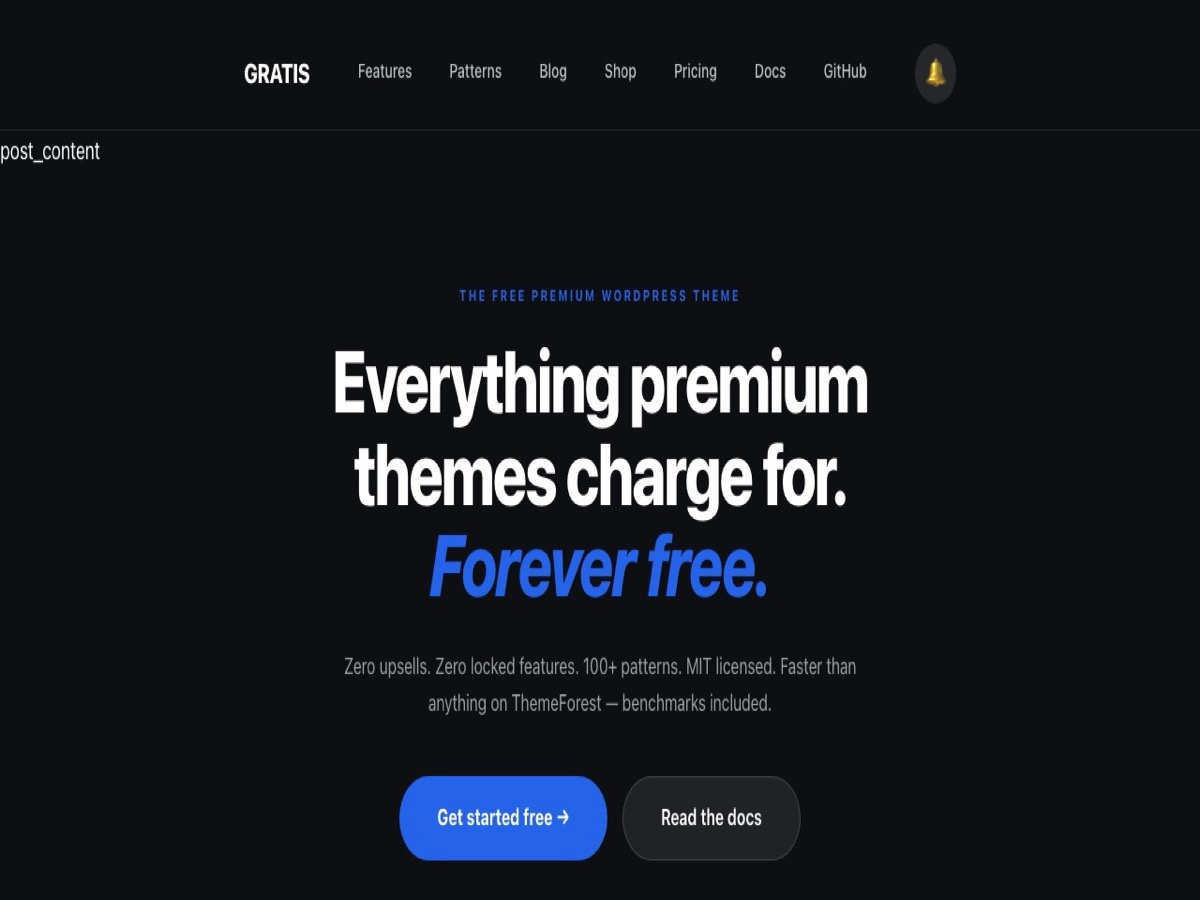
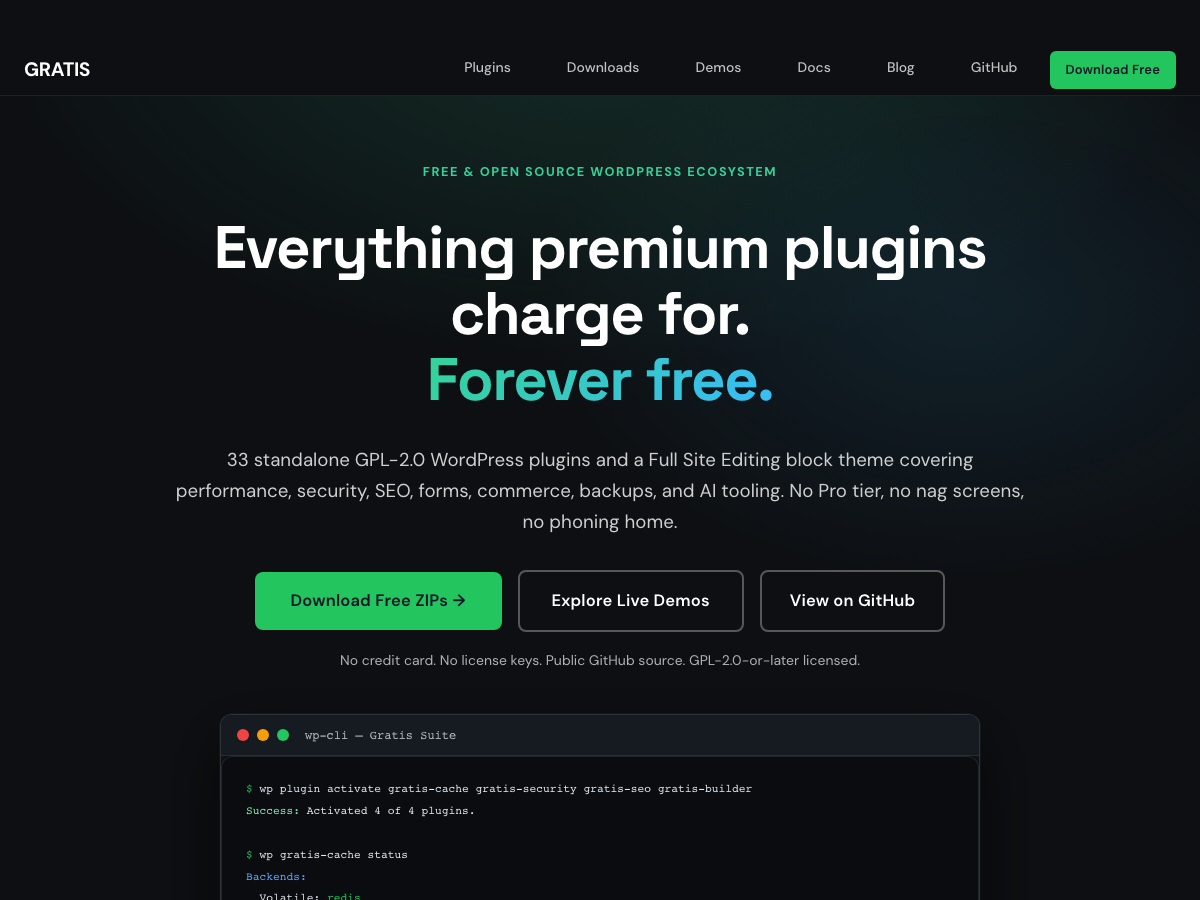
fix: pass wordpress theme check, fix single post h1, add dark plugin widget styles and fresh screenshot (#3)

diff --git a/templates/single.html b/templates/single.html
@@ -3,43 +3,18 @@
 <main class="wp-block-group" id="main-content" style="background:#0d0f12;color:#ffffff;padding-top:var(--wp--preset--spacing--12);padding-bottom:var(--wp--preset--spacing--20)">
 <!-- wp:group {"style":{"spacing":{"margin":{"bottom":"var:preset|spacing|10"}}},"layout":{"type":"constrained"}} -->
 <div class="wp-block-group">
-<!-- wp:post-terms {"term":"category","style":{"typography":{"fontSize":"11px","fontWeight":"700","textTransform":"uppercase","letterSpacing":"0.08em"},"color":{"text":"#60a5fa"}}} /-->
-<!-- wp:post-title {"tagName":"h1","style":{"typography":{"fontSize":"clamp(2rem,1.5rem+2vw,3.5rem)","fontWeight":"800","lineHeight":"1.1"},"color":{"text":"#ffffff"},"spacing":{"margin":{"top":"var:preset|spacing|3"}}}} /-->
-<!-- wp:group {"style":{"spacing":{"margin":{"top":"var:preset|spacing|4"}}},"layout":{"type":"flex","flexWrap":"wrap"}} -->
-<div class="wp-block-group">
-<!-- wp:post-date {"style":{"typography":{"fontSize":"14px"},"color":{"text":"rgba(255,255,255,0.5)"}}} /-->
-<!-- wp:paragraph {"style":{"typography":{"fontSize":"14px"},"color":{"text":"rgba(255,255,255,0.4)"}}} -->
-<p style="font-size:14px;color:rgba(255,255,255,0.4)">·</p>
-<!-- /wp:paragraph -->
-<!-- wp:post-author-name {"style":{"typography":{"fontSize":"14px"},"color":{"text":"rgba(255,255,255,0.5)"}}} /-->
+<!-- wp:post-terms {"term":"category","style":{"typography":{"fontSize":"11px","fontWeight":"700","textTransform":"uppercase","letterSpacing":"0.08em"},"color":{"text":"#34d399"}}} /-->
+<!-- wp:post-title {"level":1,"style":{"typography":{"fontSize":"clamp(2rem,1.5rem + 2vw,3.25rem)","fontWeight":"800","lineHeight":"1.12"},"color":{"text":"#ffffff"},"spacing":{"margin":{"top":"var:preset|spacing|3"}}}} /-->
+<!-- wp:group {"style":{"spacing":{"margin":{"top":"var:preset|spacing|4"},"blockGap":"16px"}},"layout":{"type":"flex","flexWrap":"wrap","verticalAlignment":"center"}} -->
+<div class="wp-block-group" style="gap:16px">
+<!-- wp:post-date {"style":{"typography":{"fontSize":"14px"},"color":{"text":"rgba(255,255,255,0.62)"}}} /-->
+<!-- wp:post-author-name {"style":{"typography":{"fontSize":"14px"},"color":{"text":"rgba(255,255,255,0.62)"}}} /-->
 </div>
 <!-- /wp:group -->
 </div>
 <!-- /wp:group -->
 <!-- wp:post-featured-image {"aspectRatio":"21/9","style":{"border":{"radius":"12px"},"spacing":{"margin":{"bottom":"var:preset|spacing|10"}}}} /-->
 <!-- wp:post-content {"layout":{"type":"constrained"}} /-->
-
-<!-- wp:group {"style":{"spacing":{"margin":{"top":"var:preset|spacing|16"}},"border":{"top":{"color":"rgba(255,255,255,0.08)","width":"1px"}}},"layout":{"type":"constrained"}} -->
-<div class="wp-block-group" style="margin-top:var(--wp--preset--spacing--16);border-top:1px solid rgba(255,255,255,0.08)">
-
-<!-- wp:group {"style":{"spacing":{"padding":{"top":"var:preset|spacing|8"}}},"layout":{"type":"flex","justifyContent":"space-between","flexWrap":"wrap"}} -->
-<div class="wp-block-group" style="padding-top:var(--wp--preset--spacing--8)">
-<!-- wp:paragraph {"style":{"typography":{"fontSize":"0.875rem","fontWeight":"600"},"color":{"text":"rgba(255,255,255,0.5)"}}} -->
-<p style="font-size:0.875rem;font-weight:600;color:rgba(255,255,255,0.5)">Share this post:</p>
-<!-- /wp:paragraph -->
-<!-- wp:group {"layout":{"type":"flex","flexWrap":"nowrap"},"style":{"spacing":{"blockGap":"var:preset|spacing|3"}}} -->
-<div class="wp-block-group">
-<!-- wp:html -->
-<a href="https://twitter.com/intent/tweet?url=" class="gratis-share-link" title="Share on X" style="color:rgba(255,255,255,0.5);text-decoration:none;font-size:14px;padding:6px 12px;border:1px solid rgba(255,255,255,0.15);border-radius:6px;">𝕏 Post</a>
-<a href="https://www.linkedin.com/sharing/share-offsite/?url=" class="gratis-share-link" title="Share on LinkedIn" style="color:rgba(255,255,255,0.5);text-decoration:none;font-size:14px;padding:6px 12px;border:1px solid rgba(255,255,255,0.15);border-radius:6px;">in Share</a>
-<!-- /wp:html -->
-</div>
-<!-- /wp:group -->
-</div>
-<!-- /wp:group -->
-
-</div>
-<!-- /wp:group -->
 
 <!-- wp:group {"style":{"spacing":{"margin":{"top":"var:preset|spacing|10"}},"border":{"top":{"color":"rgba(255,255,255,0.06)","width":"1px"}}},"layout":{"type":"flex","justifyContent":"space-between","flexWrap":"wrap"}} -->
 <div class="wp-block-group" style="margin-top:var(--wp--preset--spacing--10);border-top:1px solid rgba(255,255,255,0.06);padding-top:var(--wp--preset--spacing--6)">

diff --git a/style.css b/style.css
@@ -6,10 +6,10 @@ Author URI: https://github.com/juslintek
 Description: Everything premium themes charge for. Forever free. Zero upsells. Zero locked features. Built for speed, accessibility, and Full Site Editing.
 Version: 1.0.0
 Requires at least: 6.5
-Tested up to: 6.9
+Tested up to: 7.1
 Requires PHP: 7.4
 License: GPL-2.0-or-later
 License URI: https://www.gnu.org/licenses/gpl-2.0.html
 Text Domain: gratis
-Tags: full-site-editing, block-patterns, custom-colors, custom-typography, editor-style, rtl-language-support, wide-blocks, e-commerce, one-column
+Tags: full-site-editing, block-patterns, custom-colors, editor-style, rtl-language-support, wide-blocks, e-commerce, one-column
 */

diff --git a/assets/css/demo-showcase.css b/assets/css/demo-showcase.css
@@ -88,6 +88,11 @@
   padding: 0 1rem;
 }
 
+.demo-features > *,
+.demo-stats > * {
+  margin-block-start: 0 !important;
+}
+
 .demo-feature-card {
   background: rgba(255, 255, 255, 0.03);
   border: 1px solid rgba(255, 255, 255, 0.08);

diff --git a/functions.php b/functions.php
@@ -16,11 +16,8 @@ add_action('after_setup_theme', function () {
     load_theme_textdomain('gratis', get_template_directory() . '/languages');
 });
 
-// ── Favicon + OG Meta ─────────────────────────────────────────────────────────
+// ── OG Meta fallback ──────────────────────────────────────────────────────────
 add_action('wp_head', function () {
-    $icon = get_template_directory_uri() . '/assets/favicon.svg';
-    echo '<link rel="icon" href="' . esc_url($icon) . '" type="image/svg+xml">' . "\n";
-
     // Defer Open Graph / Twitter Card output to the Gratis SEO plugin when it is
     // active, so the document never emits duplicate og:/twitter: tags. The
     // `gratis_theme_emit_meta` filter overrides this (default: emit only when
@@ -163,15 +160,9 @@ add_action('wp_enqueue_scripts', function () {
     ]);
 });
 
-// ── Dequeue junk ──────────────────────────────────────────────────────────────
+// ── Dequeue classic theme styles not needed for FSE ───────────────────────────
 add_action('wp_enqueue_scripts', function () {
-    // Classic theme styles not needed for FSE
     wp_dequeue_style('classic-theme-styles');
-    // jQuery not needed on frontend for FSE themes
-    if (!is_admin()) {
-        wp_deregister_script('jquery');
-        wp_deregister_script('jquery-migrate');
-    }
 }, 100);
 
 // Remove emoji — saves ~15KB JS + DNS lookup
@@ -179,13 +170,6 @@ remove_action('wp_head', 'print_emoji_detection_script', 7);
 remove_action('wp_print_styles', 'print_emoji_styles');
 remove_action('admin_print_scripts', 'print_emoji_detection_script');
 remove_action('admin_print_styles', 'print_emoji_styles');
-
-// Remove oEmbed/REST discovery from <head> — reduces TTFB
-remove_action('wp_head', 'wp_oembed_add_discovery_links');
-remove_action('wp_head', 'rest_output_link_wp_head');
-remove_action('wp_head', 'wp_shortlink_wp_head');
-remove_action('wp_head', 'rsd_link');
-remove_action('wp_head', 'wlwmanifest_link');
 
 // Remove block library CSS on pages with no blocks
 add_action('wp_enqueue_scripts', function () {
@@ -443,6 +427,52 @@ header.wp-block-template-part{display:contents}
 .gratis-ghost-btn:hover{border-color:rgba(255,255,255,0.3);background:rgba(255,255,255,0.1);color:#ffffff!important}
 .gratis-cat-heading{font-size:1.35rem;font-weight:700;color:#ffffff;margin:2.5rem 0 0.5rem;padding-bottom:0.5rem;border-bottom:1px solid rgba(255,255,255,0.08)}
 .gratis-page-wrap{max-width:1180px;margin:0 auto;padding:56px 24px 80px}
+/* Screen reader utility (needed when wp-block-library is dequeued on non-singular pages) */
+.screen-reader-text{border:0;clip:rect(1px,1px,1px,1px);clip-path:inset(50%);height:1px;margin:-1px;overflow:hidden;padding:0;position:absolute;width:1px;word-wrap:normal!important}
+/* Reviews aggregate rating high contrast on dark card */
+.gratis-aggregate-rating{display:inline-flex;align-items:center;gap:10px;flex-wrap:wrap;justify-content:center}
+.gratis-aggregate-rating-text{color:#e2e8f0!important;font-size:1rem;font-weight:600}
+/* Dark-mode plugin showcase widgets (Kanban board, Booking, Learn, Events, Community) */
+.gratis-board{display:grid!important;grid-template-columns:repeat(auto-fit,minmax(220px,1fr));gap:16px!important}
+.gratis-board-col{min-width:0!important;background:#131720!important;color:#f8fafc!important;border:1px solid rgba(255,255,255,0.10)!important;border-radius:12px!important;padding:16px!important}
+.gratis-board-col h3{color:#f8fafc!important;font-weight:700!important;font-size:0.9rem!important;text-transform:uppercase;letter-spacing:0.05em;padding-bottom:10px;border-bottom:1px solid rgba(255,255,255,0.08)}
+.gratis-board-col .gratis-card{background:#1b2232!important;color:#f8fafc!important;border:1px solid rgba(255,255,255,0.10)!important;border-radius:10px!important;padding:12px!important}
+.gratis-board-col .gratis-card strong{color:#ffffff!important;display:block;margin-bottom:6px;font-size:0.92rem}
+.gratis-board-col .gratis-card span,.gratis-board-col .gratis-card-priority{display:inline-block;margin-left:0!important;padding:2px 8px;border-radius:999px;background:rgba(52,211,153,0.14);color:#6ee7b7!important;font-size:0.75rem!important;font-weight:600}
+.gratis-board-col .gratis-board-empty,.gratis-board-col p{color:rgba(255,255,255,0.58)!important}
+.gratis-booking-form{display:flex;flex-direction:column;gap:18px}
+.gratis-booking-row{display:grid;grid-template-columns:repeat(auto-fit,minmax(220px,1fr));gap:16px}
+.gratis-booking-field{display:flex;flex-direction:column;gap:8px}
+.gratis-booking-field label,.gratis-booking-label{font-size:0.85rem;font-weight:600;color:#e2e8f0}
+.gratis-booking-field select,.gratis-booking-field input{background:#131720;color:#ffffff;border:1px solid rgba(255,255,255,0.16);border-radius:8px;padding:10px 12px;font-size:0.95rem}
+.gratis-booking-slots{display:flex;flex-wrap:wrap;gap:8px}
+.gratis-booking-slot{background:#131720;color:#e2e8f0;border:1px solid rgba(255,255,255,0.16);border-radius:8px;padding:8px 14px;font-size:0.88rem;font-weight:600;cursor:pointer;transition:all 150ms ease}
+.gratis-booking-slot:hover{border-color:#34d399;color:#ffffff}
+.gratis-booking-slot.is-selected{background:#22c55e;border-color:#22c55e;color:#052e16}
+.gratis-booking-submit{align-self:flex-start;background:#22c55e;color:#052e16;border:none;border-radius:8px;padding:12px 22px;font-size:0.95rem;font-weight:700;cursor:pointer;transition:background-color 150ms ease}
+.gratis-booking-submit:hover{background:#4ade80}
+.gratis-booking-status{margin:0;font-size:0.9rem;min-height:1.4em}
+.gratis-booking-status.is-success{color:#34d399}
+.gratis-booking-status.is-error{color:#f87171}
+.gratis-course-catalog{display:grid;grid-template-columns:repeat(auto-fit,minmax(280px,1fr));gap:18px}
+.gratis-course-card{background:#131720;border:1px solid rgba(255,255,255,0.10);border-radius:12px;padding:20px;display:flex;flex-direction:column;gap:12px}
+.gratis-course-card__head{display:flex;align-items:flex-start;justify-content:space-between;gap:10px}
+.gratis-course-card__title{margin:0;font-size:1.08rem;font-weight:700;line-height:1.3}
+.gratis-course-card__title a{color:#ffffff!important;text-decoration:none}
+.gratis-course-card__title a:hover{color:#34d399!important}
+.gratis-course-card__count{font-size:0.75rem;font-weight:600;color:#34d399;background:rgba(52,211,153,0.12);border:1px solid rgba(52,211,153,0.25);padding:2px 8px;border-radius:999px;white-space:nowrap}
+.gratis-course-card__desc{margin:0;color:rgba(255,255,255,0.74);font-size:0.9rem;line-height:1.55}
+.gratis-course-outline{margin:0;padding-left:20px;display:flex;flex-direction:column;gap:6px;color:rgba(255,255,255,0.78);font-size:0.88rem}
+.gratis-course-outline a{color:#93c5fd!important;text-decoration:none}
+.gratis-course-outline a:hover{text-decoration:underline}
+.gratis-events-list{display:grid;grid-template-columns:repeat(auto-fit,minmax(260px,1fr));gap:16px;list-style:none;padding:0;margin:0}
+.gratis-events-list li,.gratis-event-item{background:#131720;border:1px solid rgba(255,255,255,0.10);border-radius:12px;padding:18px;display:flex;flex-direction:column;gap:6px}
+.gratis-events-list a,.gratis-event-item a{color:#ffffff!important;font-weight:700;text-decoration:none;font-size:1rem}
+.gratis-events-list a:hover,.gratis-event-item a:hover{color:#34d399!important}
+.gratis-activity-feed{display:flex;flex-direction:column;gap:4px}
+.gratis-activity-item{padding:14px 16px!important;background:#131720;border:1px solid rgba(255,255,255,0.08)!important;border-radius:10px;margin-bottom:8px;color:rgba(255,255,255,0.85)}
+.gratis-activity-item strong{color:#ffffff}
+.gratis-activity-item small{color:#94a3b8!important;margin-left:6px}
 /* Compact sleek cookie banner */
 #gratis-consent{padding:14px 20px!important;background:rgba(17,20,28,0.96)!important;backdrop-filter:blur(12px);border-top:1px solid rgba(255,255,255,0.12)!important}
 /* Image styles */

diff --git a/AGENTS.md b/AGENTS.md
@@ -31,6 +31,5 @@ Gratis Theme is a Full Site Editing (FSE) block theme for WordPress with 35+ pat
 
 ## Related
 
-- `/Volumes/Projects/AGENTS.md` — Machine-wide agent guidance
-- `/Volumes/Projects/gratis/AGENTS.md` — Gratis plugin suite guidance
+- `https://gratis.superglobalsdevelopment.com/` — Gratis Suite website
 - `mcp-for-page-builders` — Visual auditing MCP for page builders
